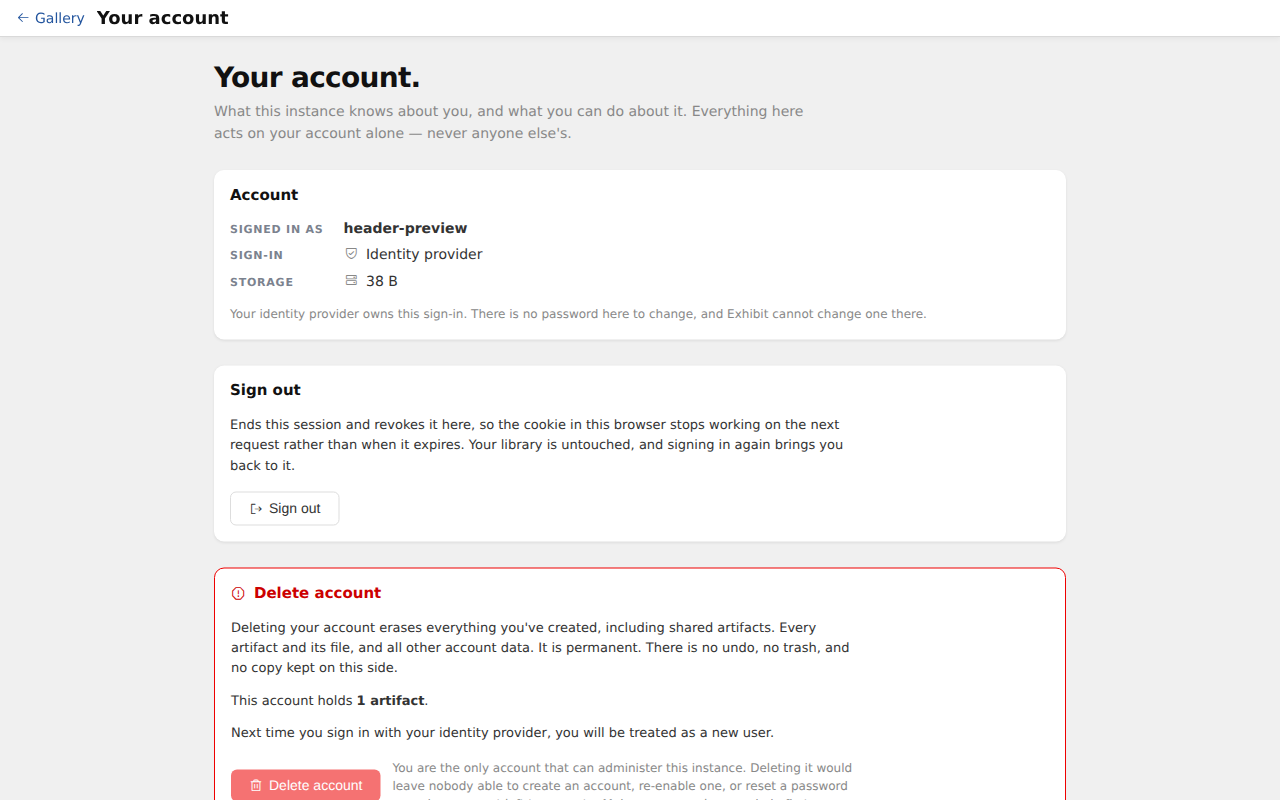
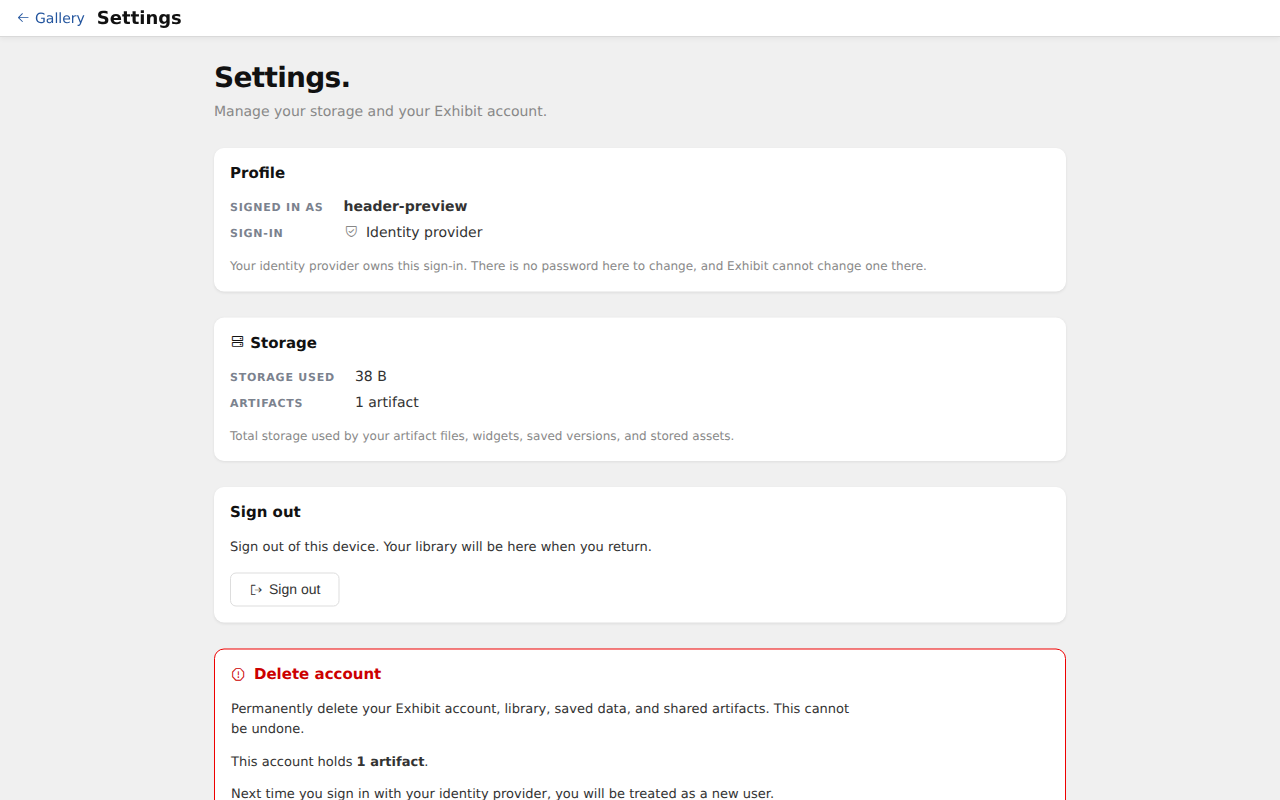
Refresh header screenshots after account navigation integration

diff --git a/web/gallery/settings.css b/web/gallery/settings.css
@@ -10,8 +10,6 @@
 *{box-sizing:border-box;margin:0;padding:0}
 body{font-family:system-ui,sans-serif;background:var(--color-ground);color:var(--color-ink);min-height:100vh}
 main{padding:var(--space-8);max-width:900px;margin:0 auto}
-/* Match the approved account flow while retaining the ordinary admin header. */
-
 
 /* --- lede -------------------------------------------------------------- */
 .lede h2{font-size:28px;font-weight:650;letter-spacing:-.025em}

diff --git a/.tickets/Exh-arf2.md b/.tickets/Exh-arf2.md
@@ -23,3 +23,7 @@ All five pages use shared header markup and CSS. Gallery desktop/mobile dimensio
 **2026-10-30T03:18:02Z**
 
 Extracted typed appHeaderView and shared appHeader partial/CSS; migrated gallery, /profile, artifact editor, /admin/users and /new. Preserved rendered gallery dimensions (37px desktop/33px phone) and page-specific navigation, Clerk mount, filter/search and save bindings. Added browser layout coverage for all five pages at six widths, including long editor return labels and Filter text containment. Updated component docs and desktop/phone screenshots. Validation: make assets and Go build; focused Go page/auth tests; AppHeaderBrowser, EditNavigationBrowser, GalleryFilterBrowser and markup tests; all 407 gallery Node tests with --experimental-vm-modules. Full go test ./... run was stopped after the stale editor-return markup assertion was identified; its updated test passed in the focused rerun.
+
+**2026-10-30T03:28:54Z**
+
+Rebased onto current origin/main before PR creation. Preserved the newly merged unified accountControl on gallery and hosted Settings, including recovery links; /profile remains an alias of /settings. Updated Clerk markup assertion, removed obsolete account-settings header CSS, and refreshed all screenshots. Post-rebase focused Go/browser tests (including Clerk account flow) passed in 25.9s; all 407 Node tests passed.
